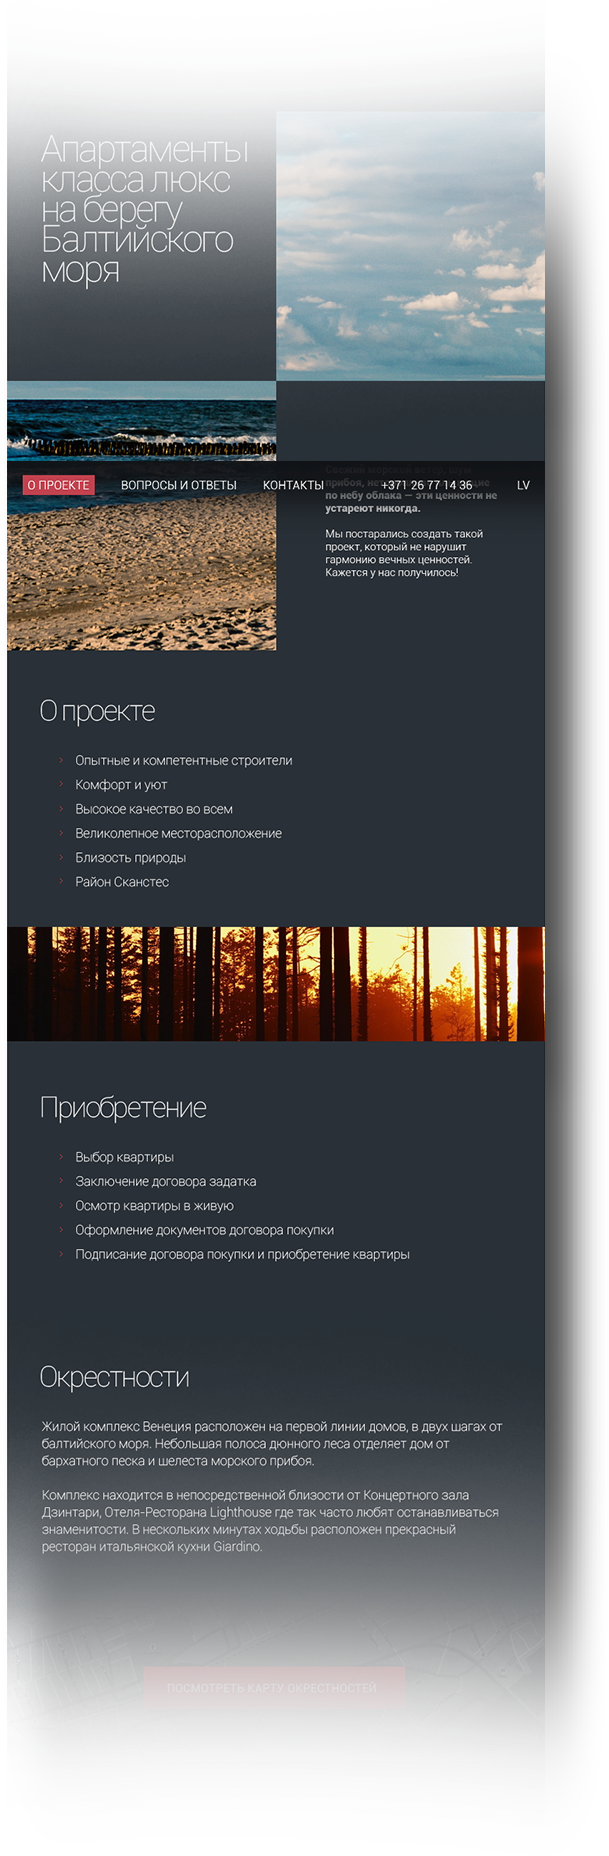
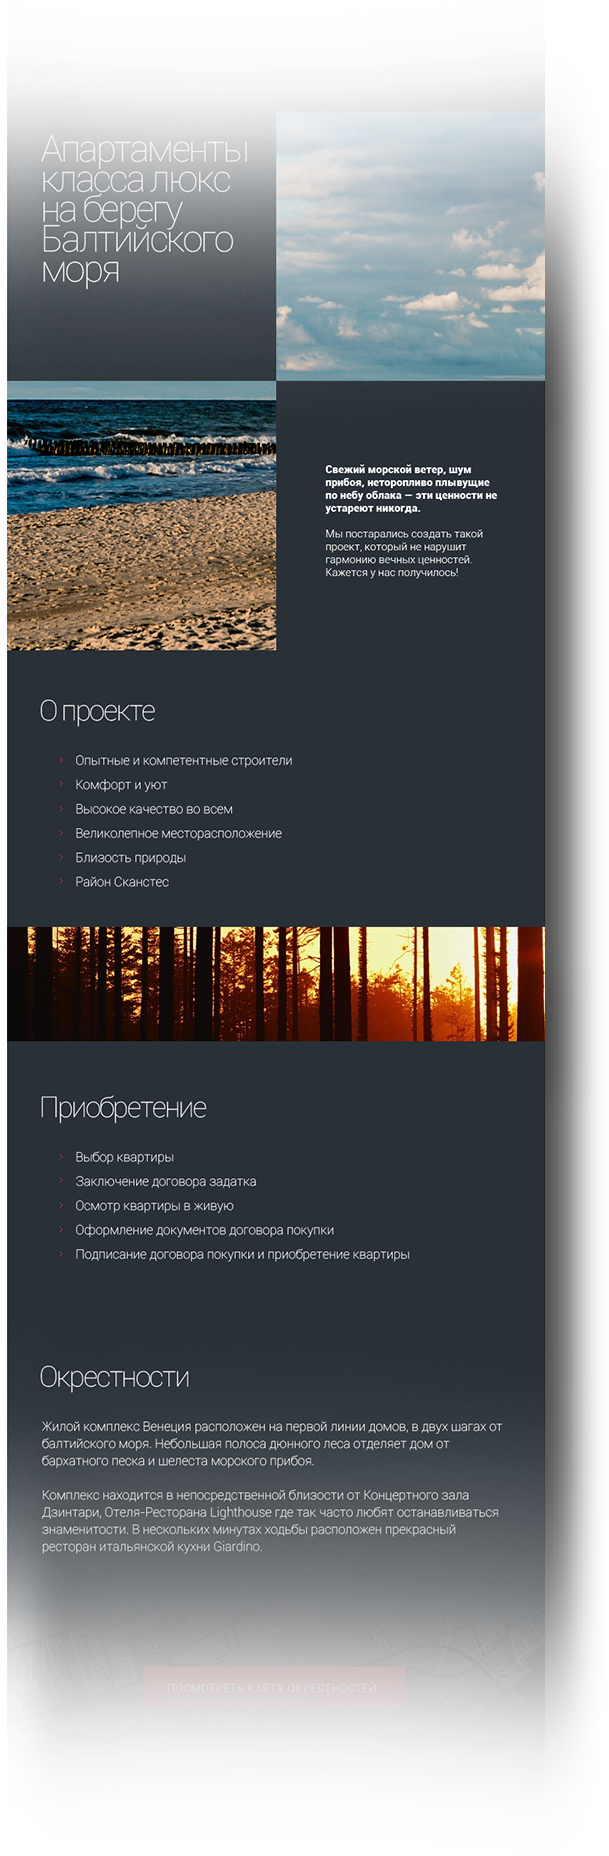
fixes and updates for venezia

Changed region(s): [[0.0, 0.25, 0.9048, 0.2812]]

diff --git a/app/components/aizkulises/aizkulises.js b/app/components/aizkulises/aizkulises.js
@@ -10,6 +10,8 @@ export default function aizkulises() {
   if (/(android|bb\d+|meego).+mobile|avantgo|bada\/|blackberry|blazer|compal|elaine|fennec|hiptop|iemobile|ip(hone|od)|ipad|iris|kindle|Android|Silk|lge |maemo|midp|mmp|netfront|opera m(ob|in)i|palm( os)?|phone|p(ixi|re)\/|plucker|pocket|psp|series(4|6)0|symbian|treo|up\.(browser|link)|vodafone|wap|windows (ce|phone)|xda|xiino/i.test(navigator.userAgent) ||
     /1207|6310|6590|3gso|4thp|50[1-6]i|770s|802s|a wa|abac|ac(er|oo|s\-)|ai(ko|rn)|al(av|ca|co)|amoi|an(ex|ny|yw)|aptu|ar(ch|go)|as(te|us)|attw|au(di|\-m|r |s )|avan|be(ck|ll|nq)|bi(lb|rd)|bl(ac|az)|br(e|v)w|bumb|bw\-(n|u)|c55\/|capi|ccwa|cdm\-|cell|chtm|cldc|cmd\-|co(mp|nd)|craw|da(it|ll|ng)|dbte|dc\-s|devi|dica|dmob|do(c|p)o|ds(12|\-d)|el(49|ai)|em(l2|ul)|er(ic|k0)|esl8|ez([4-7]0|os|wa|ze)|fetc|fly(\-|_)|g1 u|g560|gene|gf\-5|g\-mo|go(\.w|od)|gr(ad|un)|haie|hcit|hd\-(m|p|t)|hei\-|hi(pt|ta)|hp( i|ip)|hs\-c|ht(c(\-| |_|a|g|p|s|t)|tp)|hu(aw|tc)|i\-(20|go|ma)|i230|iac( |\-|\/)|ibro|idea|ig01|ikom|im1k|inno|ipaq|iris|ja(t|v)a|jbro|jemu|jigs|kddi|keji|kgt( |\/)|klon|kpt |kwc\-|kyo(c|k)|le(no|xi)|lg( g|\/(k|l|u)|50|54|\-[a-w])|libw|lynx|m1\-w|m3ga|m50\/|ma(te|ui|xo)|mc(01|21|ca)|m\-cr|me(rc|ri)|mi(o8|oa|ts)|mmef|mo(01|02|bi|de|do|t(\-| |o|v)|zz)|mt(50|p1|v )|mwbp|mywa|n10[0-2]|n20[2-3]|n30(0|2)|n50(0|2|5)|n7(0(0|1)|10)|ne((c|m)\-|on|tf|wf|wg|wt)|nok(6|i)|nzph|o2im|op(ti|wv)|oran|owg1|p800|pan(a|d|t)|pdxg|pg(13|\-([1-8]|c))|phil|pire|pl(ay|uc)|pn\-2|po(ck|rt|se)|prox|psio|pt\-g|qa\-a|qc(07|12|21|32|60|\-[2-7]|i\-)|qtek|r380|r600|raks|rim9|ro(ve|zo)|s55\/|sa(ge|ma|mm|ms|ny|va)|sc(01|h\-|oo|p\-)|sdk\/|se(c(\-|0|1)|47|mc|nd|ri)|sgh\-|shar|sie(\-|m)|sk\-0|sl(45|id)|sm(al|ar|b3|it|t5)|so(ft|ny)|sp(01|h\-|v\-|v )|sy(01|mb)|t2(18|50)|t6(00|10|18)|ta(gt|lk)|tcl\-|tdg\-|tel(i|m)|tim\-|t\-mo|to(pl|sh)|ts(70|m\-|m3|m5)|tx\-9|up(\.b|g1|si)|utst|v400|v750|veri|vi(rg|te)|vk(40|5[0-3]|\-v)|vm40|voda|vulc|vx(52|53|60|61|70|80|81|83|85|98)|w3c(\-| )|webc|whit|wi(g |nc|nw)|wmlb|wonu|x700|yas\-|your|zeto|zte\-/i.test(navigator.userAgent.substr(0, 4))) {
     isMobile = true;
+
+    window.isMobile = isMobile;
   }
 
   /*
@@ -118,6 +120,9 @@ export default function aizkulises() {
         if (el.hasClass('js-sr_14')) el.addClass(`${animClasses[5]}
         `).css({
           animationDelay: '300ms',
+        });
+        if (el.hasClass('js-sr_15')) el.addClass(`${animClasses[1]}`).css({
+          animationDelay: '500ms',
         });
 
         setTimeout(() => {

diff --git a/app/components/venezia/venezia.scss b/app/components/venezia/venezia.scss
@@ -27,26 +27,6 @@
     background-position: -407px -143px;
   }
 
-  &::after {
-    display: block;
-    content: '';
-    width: 100%;
-    height: 670px;
-    background-color: $color-violet-dark;
-
-    @include screen('xl') {
-      height: 440px;
-    }
-
-    @include screen('lg') {
-      height: 330px;
-    }
-
-    @include screen('md') {
-      height: 230px;
-    }
-  }
-
   .case-section {
 
     &__heading {
@@ -574,7 +554,7 @@
       }
 
       &_first {
-        margin-left: -9.9%;
+        margin-left: -10%;
 
         @include screen('xl') {
           margin-left: -34.5%;
@@ -690,6 +670,34 @@
       @include screen('md') {
         width: 45.8%;
         right: 18%;
+      }
+
+      &-img {
+        position: relative;
+        display: block;
+        width: 100%;
+        height: auto;
+        font-size: 0;
+        line-height: 0;
+        z-index: 2;
+      }
+    }
+
+    &__nav {
+      display: block;
+      position: absolute;
+      width: 40.4%;
+      top: 5.1%;
+      right: 23.3%;
+      z-index: 2;
+
+      @include screen('xl') {
+        top: 5.3%;
+        right: 16.8%;
+      }
+
+      @include screen('md') {
+        right: 22.9%;
       }
 
       &-img {

diff --git a/app/components/venezia/venezia.js b/app/components/venezia/venezia.js
@@ -1,0 +1,43 @@
+/* eslint-disable */
+
+import {
+  TweenMax,
+  TimelineMax,
+  Power0,
+} from 'gsap/TweenMax';
+import ScrollMagic from 'scrollmagic';
+import 'imports-loader?define=>false!scrollmagic/scrollmagic/uncompressed/plugins/animation.gsap';
+
+const $ = window.$;
+
+export default function venezia() {
+  if (!window.isMobile) {
+    const controller = new ScrollMagic.Controller();
+
+    const anim = new TimelineMax()
+      .add([
+        TweenMax.fromTo('.venezia-applique__mac', 1, {
+          y: 100,
+        }, {
+          y: -100,
+          ease: Power0.easeNone,
+        }),
+        TweenMax.fromTo('.venezia-applique__screen', 1, {
+          y: 200,
+        }, {
+          y: -200,
+          ease: Power0.easeNone,
+        }),
+      ]);
+
+    const scene = new ScrollMagic
+      .Scene({
+        triggerElement: '.venezia-applique',
+        duration: $('.venezia-applique').outerHeight(),
+      })
+      .setTween(anim)
+      .addTo(controller);
+  }
+}
+
+/* eslint-enable */

diff --git a/app/components/header/header.scss b/app/components/header/header.scss
@@ -11,7 +11,7 @@
   $b: &;
 
   &.is-fixed {
-    background-color: $color-grey-dark-2;
+    // background-color: $color-grey-dark-2;
   }
 
   @include screen('lg') {
@@ -64,7 +64,9 @@
       height: 17px;
     }
 
-    span, &::before, &::after {
+    span,
+    &::before,
+    &::after {
       height: 2px;
       width: 100%;
       border-radius: 50px;
@@ -85,7 +87,8 @@
       }
     }
 
-    &::before, &::after {
+    &::before,
+    &::after {
       content: '';
     }
 

diff --git a/app/scripts/app.js b/app/scripts/app.js
@@ -25,6 +25,7 @@ import '../blocks/accordion/accordion';
 import '../blocks/dropdown/dropdown';
 import '../blocks/put-block-into-slot/put-block-into-slot';
 import aizkulises from '../components/aizkulises/aizkulises';
+import venezia from '../components/venezia/venezia';
 import header from '../components/header/header';
 
 const $ = window.$;
@@ -51,4 +52,5 @@ $(() => {
 
   aizkulises();
   header();
+  venezia();
 });
